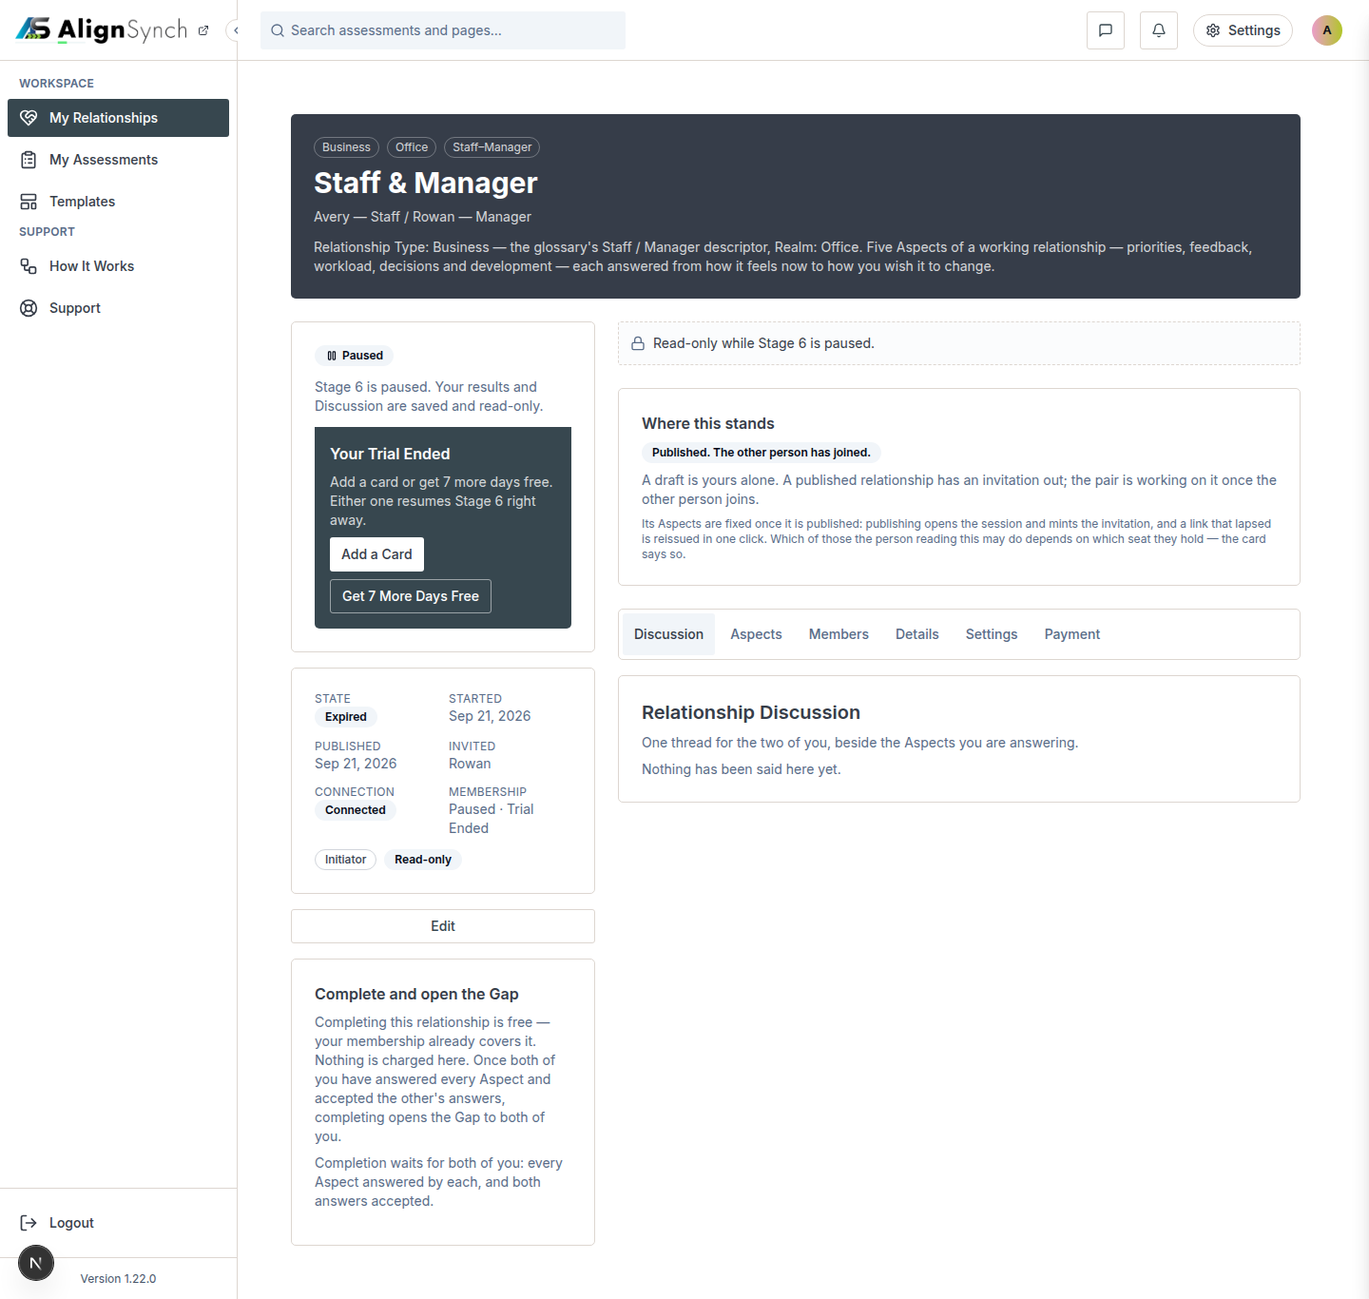
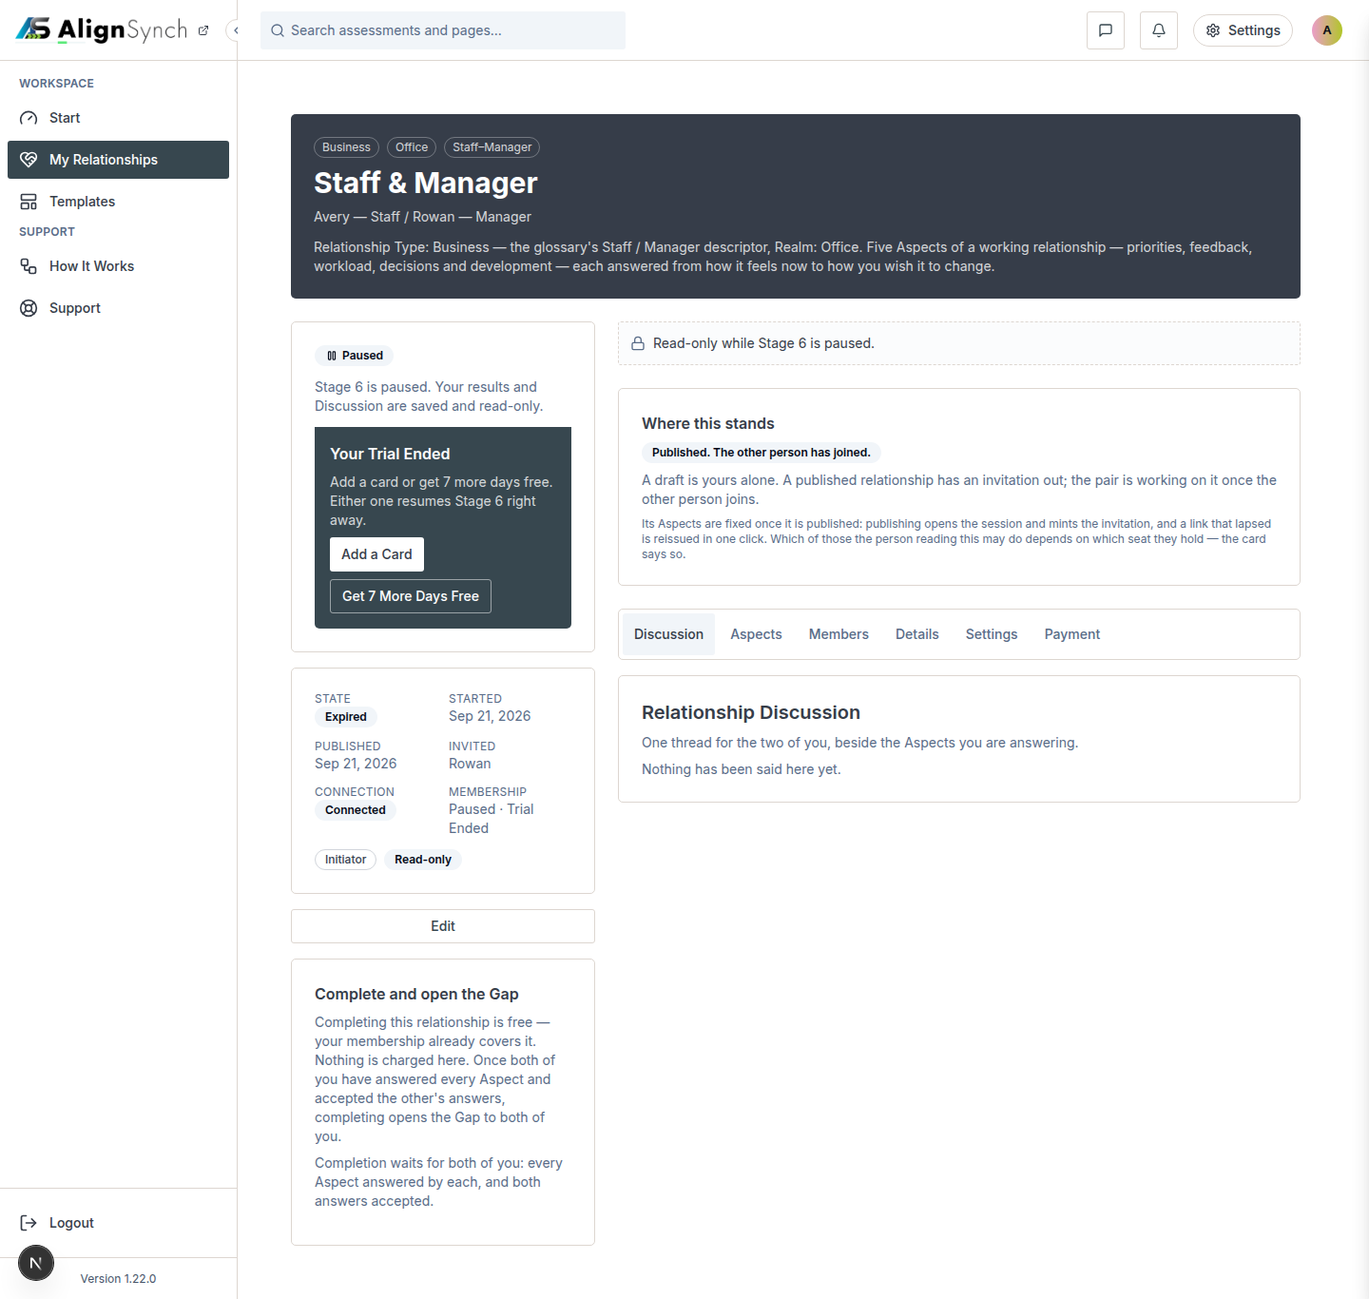
chore(release): 1.22.0 — re-issue the entry and the page for the three v2.0 landings

Changed region(s): [[0.0, 0.0615, 0.1875, 0.1537]]

diff --git a/docs/changelog/v1-22-0.md b/docs/changelog/v1-22-0.md
@@ -14,9 +14,10 @@ was answered by scrolling.
 
 This release makes the relationship a surface with sections instead of a page with headings. Six
 tabs, a hash that names one, a Counterparty who joins the pair rather than being described by the
-Initiator, Aspects that are numbered and carry a tolerance in words, and a Stage 6 that pauses when a
-trial ends instead of closing the relationship quietly. Ten feature commits answer that, and five
-fixes, chores and docs commits ride with them.
+Initiator, Aspects that are numbered and carry a tolerance in words, a Stage 6 that pauses when a
+trial ends instead of closing the relationship quietly — and a shell whose rail opens on Start
+rather than on a page of counts. Twelve feature commits answer that, and six fixes, chores and docs
+commits ride with them.
 
 ## Six sections, one record
 
@@ -82,12 +83,67 @@ offering "7 more days free" to somebody who has already paid would be a lie abou
 `daysLeft` is `ceil`, never `floor` — _0 Days Left_ on a trial that is still running reads as a
 defect, so an hour before the end still reads **1**.
 
+## Close or leave, never delete
+
+`#1135` (`#1149`) gives Stage 6 its ending verbs — and the invitation its three — under one rule:
+**close or leave, never delete.** Every verb moves a status through `lib/relationship/status.ts` and
+writes one `admin_action` row through `act()`. Not one of them deletes anything, and no answer,
+opinion or invitation is hard-removed.
+
+- `cancelInvitation` kills the link and returns the status to `draft` in one transaction, so the same
+  Aspects can be invited again. Order matters: invitation first, status second.
+- `abandonRelationship` moves `draft|pending → void` with the reason on the row's `void_reason`, and
+  deliberately not `published`, which is Cancel Invite's status.
+- `leaveRelationship` is the Counterparty's **one** status edge, `active → complete`, and it runs from
+  either seat: a two-party relationship cannot run with one seat, so leaving closes Stage 6 for both
+  with the answers still readable.
+- `requestRemoval` is the Counterparty's ask — one audit row and no state change. The reason on it is
+  support's alone, and `readMyRelationship()` selects only the instant.
+
+The detail page gains the Invitation panel (Copy Invite Link beside a link this render minted, Resend,
+Cancel behind a neutral confirm), the Abandon Draft panel, and Close This Relationship — Leave for both
+seats, Request My Removal for the Counterparty. Every control is a graphite outline, there is no
+"Delete Relationship" anywhere (`#1119` D–E), and each of the five verbs re-asks the seat inside its own
+transaction: a screen flag is never a permission.
+
 ## The create wizard draws the same rail
 
 `#1123` (`#1144`) has the Create Relationship wizard draw the v2 rail and one stage card, so the
 walk into a relationship and the page that relationship becomes are one visual system rather than
 two. The rail still prints `Stage {n} of 5`; what is new is that a stage is one card, not a column of
 sections.
+
+## The rail opens on Start
+
+`#1129` (`#1150`) ports the shell bundle over the two screens it owns and the rail they share. The
+rail reads **Start · My Relationships · Templates**, and Start is `/dashboard` with `exact: true` — a
+prefix rule would light it beside every `/dashboard/*` row. The expanded rail moves from `lg` (1024px)
+to `xl` (1280px) and the content column is capped at `max-w-content` (1440px), so a 1024px laptop
+keeps its content width instead of spending 200 pixels on a sidebar.
+
+Two screens stop being a page of counts. **Start** is one computed Next Step — the widest Gap across
+the live relationships, Wish before Feel, then Aspect order — on solid graphite, up to two outline jobs
+(add a card to a paused relationship, finish a draft, both Initiator-only), then two relationship
+cards and four templates. `lib/member/start.ts` owns the four card words, and
+`lib/member/alignment-summary.ts` computes the bar and the Next Step over `content/gaps.ts` because
+**no Gap is stored**. The four console counts that used to be this page moved one click away to
+`/assessments?filter=…`; `components/console/overview.tsx` is untouched and still answers.
+
+**My Relationships** draws one card per relationship with **one** status chip and **one** action, five
+filter chips with counts, search and sort. `?filter=` is the chip's address: the page reads it back
+(an unknown word lands on All) and writes it with `replaceState`, because the rows are already in hand
+and a navigation would re-run both reads to redraw one grid.
+
+The read underneath is member-scoped — `lib/db/member-alignments.ts` returns the bar, and no party
+name, no `user_id` and no invitation row leaves Postgres. Both empty states are bundle 05's, each with
+exactly one way forward (E40 rule 7): no rows says **No Relationships Yet** with **Browse Templates**;
+rows but nothing matching says **Nothing Matches** with **Show All**, which clears the chip and the
+search together.
+
+The rail draws three rows, not the artifact's five. `/chat` belongs to the quiz product and answers
+404 on this brand, and no Payment route exists yet; `lib/nav-menu.ts` states the rule both would break
+— _a row pointing at a 404 advertises a surface_ — so `#1131` and `#1132` each add their own row in the
+PR that builds their page.
 
 ## One palette, and a gate that reads the router
 
@@ -113,23 +169,35 @@ admin-only, read-only, and it states its own failure rather than drawing an empt
 
 ## The screen this release is about
 
-This still is this release's own tree. A dev server was started from the branch that carries this
-page, and `GET /api/version` answered `{"version":"1.22.0","commit":"7eb8ed0d"}` before a browser
-opened — the same commit the branch is cut from. Then it was captured at 1440 CSS pixels, signed in
-as the demo branch's own Initiator, on a live trial relationship.
+This still is this release's own tree. A dev server was started from the tree the release PR merged,
+and `GET /api/version` answered `{"version":"1.22.0","commit":"33c59da9"}` before a browser opened —
+the release PR's merge commit, whose squash on `main` (`0d0cadf5`) carries exactly that tree
+(`git diff 33c59da9 origin/main` is empty). Then it was captured at 1440 CSS pixels, signed in as the
+demo branch's own Initiator, on a live trial relationship.
 
-![The relationship detail at 1440 on this release's own tree: the six-tab strip across the top — Discussion, Aspects, Members, Details, Settings, Payment — over a Staff & Manager relationship read by its Initiator, with the Your Trial Ended band above the sections and the numbered Aspects below](../qa/release-1.22.0/relationship-detail-1440.png)
+![The relationship detail at 1440 on this release's own tree: shell v2's rail down the left reading Start, My Relationships, Templates, the six-tab strip across the top — Discussion, Aspects, Members, Details, Settings, Payment — over a Staff & Manager relationship read by its Initiator, with the Your Trial Ended band above the sections and the numbered Aspects below](../qa/release-1.22.0/relationship-detail-1440.png)
+
+The rail in that still is shell v2's, which is the thing that made the first capture stale: the
+screenshot was taken on `7eb8ed0d`, before `#1150` moved the chrome, so the file was re-captured
+rather than kept. `docs/qa/release-1.22.0/capture-report.json` carries the pair above and the
+assertions the capture made — the six tab labels, the rail's three rows, `scrollWidth === innerWidth`
+at 1440, and an empty `envLeaks` list.
 
 ## The honest sentence
 
 This is a surface release and it is not the v2.0 launch, which is the first thing the limits below
-say and the thing a reader of the entry is most likely to assume otherwise. Ten open pull requests
-carry the v2.0 shell and are excluded from this tag by name; the noun sweep that would retire
-`instance` in favour of `session` has not happened and both nouns are still in this tree; no
-dependency major moved; and **no migration rides this tag** — the newest file under `db/migrations/`
-is `0041_session_state.sql`, from v1.21.0, and this release neither adds one nor applies one. A
-production database whose ledger has not been run with `pnpm db:migrate` is a deliberate step
-somebody takes, not something this tag performs.
+say and the thing a reader of the entry is most likely to assume otherwise. The v2.0 lane is **half
+in** it: the app shell v2 (`#1129`, `#1150`), invitation hygiene and leave-instead-of-delete (`#1135`,
+`#1149`) and the admin CRUD bundle's docs (`#1158`) landed before this tag. The other ten v2.0 pull
+requests are open and excluded by name — templates v2 (`#1151`), the account menu (`#1152`), card menus
+and Save a Copy (`#1153`), chat v2 (`#1154`), the Aspect drawer (`#1155`), payment v2 (`#1156`),
+conversion (`#1159`), the three-plan catalogue (`#1161`), the copy-deletion fix (`#1163`) and templates
+retirement phase 2 (`#1112`) — and they land in v2.0.0. The noun sweep that would retire `instance` in
+favour of `session` has not happened and both nouns are still in this tree; no dependency major moved;
+and **no migration rides this tag** — the newest file under `db/migrations/` is
+`0041_session_state.sql`, from v1.21.0, and this release neither adds one nor applies one. A production
+database whose ledger has not been run with `pnpm db:migrate` is a deliberate step somebody takes, not
+something this tag performs.
 
 ## The entry
 
@@ -138,11 +206,13 @@ somebody takes, not something this tag performs.
 
 - **Released** 2026-11-17
 - **Tag** [`v1.22.0`](https://github.com/riolabs-ai/alignsynch/releases/tag/v1.22.0)
-- **Pull requests named** 15
+- **Pull requests named** 18
 - **The entry** [`CHANGELOG.md`](../../CHANGELOG.md)
 
 ### Added
 
+- `feat(shell)` — app shell v2 — Start and My Relationships, the rail opens on Start (#1129) ([#1150](https://github.com/riolabs-ai/alignsynch/pull/1150))
+- `feat(crud)` — invitation hygiene, and leave or abandon instead of delete (#1135) ([#1149](https://github.com/riolabs-ai/alignsynch/pull/1149))
 - `feat(admin)` — the CRUD and Permissions matrix — admin-only, read-only, with the honest failure state (#1126) ([#1157](https://github.com/riolabs-ai/alignsynch/pull/1157))
 - `feat(v2)` — #1124 — Relationship Detail's six-tab layer ([#1148](https://github.com/riolabs-ai/alignsynch/pull/1148))
 - `feat(v2)` — #1125 — Counterparty join — a 3-step role flow (Invite · Join · Accept) ([#1147](https://github.com/riolabs-ai/alignsynch/pull/1147))
@@ -160,6 +230,7 @@ somebody takes, not something this tag performs.
 
 ### Maintenance
 
+- `docs(specs)` — bundle 12 Admin CRUD & Permissions + crud-matrix.md (#1126) ([#1158](https://github.com/riolabs-ai/alignsynch/pull/1158))
 - `chore(deps)` — bump next from 16.4.1 to 16.4.5 ([#1118](https://github.com/riolabs-ai/alignsynch/pull/1118))
 - `docs(specs)` — v2.0 UI handoff bundles (01–11) ([#1137](https://github.com/riolabs-ai/alignsynch/pull/1137))
 - `chore(gate)` — routes:check — Next's own router validation over the built manifest (#1113) ([#1114](https://github.com/riolabs-ai/alignsynch/pull/1114))
@@ -169,35 +240,37 @@ somebody takes, not something this tag performs.
 <!-- changelog-view:begin limits -->
 <!-- generated from CHANGELOG.md by scripts/changelog-view.mjs — edit the entry, not this block -->
 
-- **The v2.0 lane is not in this release.** Ten open pull requests — `#1149`, `#1150`, `#1151`,
-  `#1152`, `#1153`, `#1154`, `#1155`, `#1156`, `#1158` and `#1159` — carry the v2.0 surface (app
-  shell, templates, chat, payment, CRUD, the admin matrix, conversion, the answer screen). Every one
-  of them is `DIRTY` or `BEHIND` against `main`, and all ten are excluded from this tag by name: they
-  land in v2.0.0, not here. `#1112` (templates retirement, phase 2) is excluded the same way.
+- **The v2.0 lane is half in this release, and the other half is excluded by name.** Three v2.0 pull
+  requests merged onto `main` before this tag and are **in it**: the app shell v2 — Start and My
+  Relationships, the rail opening on Start (`#1129`, `#1150`) — invitation hygiene and leave-instead-of-
+  delete (`#1135`, `#1149`), and the admin CRUD bundle's docs (`#1158`). The rest are open and are not in
+  this version: `#1151` Templates v2, `#1152` the account menu, `#1153` card menus and Save a Copy,
+  `#1154` Chat v2, `#1155` the Aspect drawer, `#1156` Payment v2, `#1159` conversion, `#1161` the three-plan
+  catalogue, `#1163` the copy-deletion fix, and `#1112` (templates retirement, phase 2). Those land in
+  v2.0.0.
 
-- **The noun sweep has not happened.** `#1103` retires `instance` in favour of `session` — `#1106`
-  in the code and `#1107` in the bundle format — and both are deferred to v2.0.0, so both nouns are
-  still in this tree's comments, its docs and its schema, and the platform bundle this build writes
-  is still version 2 (`content/bundle.ts::PLATFORM_BUNDLE_VERSION`).
+- **The noun sweep has not happened.** `#1103` retires `instance` in favour of `session` — `#1106` in the
+  code and `#1107` in the bundle format — and both are deferred to v2.0.0, so both nouns are still in this
+  tree's comments, its docs and its schema, and the platform bundle this build writes is still version 2
+  (`content/bundle.ts::PLATFORM_BUNDLE_VERSION`).
 
-- **No dependency majors.** `#1027` (swiper `14.4.0`) and `#1025` (jsdom `31.0.0`) are open and
-  deferred to v2.0.0. The only dependency that moved in this window is `next` `16.4.1` → `16.4.5`
-  (`#1118`), a patch release taken for an advisory that stopped `next build`.
+- **No dependency majors.** `#1027` (swiper `14.4.0`) and `#1025` (jsdom `31.0.0`) are open and deferred to
+  v2.0.0. The only dependency that moved in this window is `next` `16.4.1` → `16.4.5` (`#1118`), a patch
+  release taken for an advisory that stopped `next build`.
 
-- **No migration rides this tag.** Nothing under `db/migrations/` changed between `v1.21.0` and this
-  release — the newest file in the tree is `db/migrations/0041_session_state.sql`, applied on the
-  demo branch on 2026-11-16. Production's schema is applied by hand with `pnpm db:migrate` and this
-  release neither adds nor applies a migration, so a create against a production database whose
-  ledger has not been run is a separate, deliberate step rather than something this tag performs.
+- **No migration rides this tag.** Nothing under `db/migrations/` changed between `v1.21.0` and this release
+  — the newest file in the tree is `db/migrations/0041_session_state.sql`, applied on the demo branch on
+  2026-11-16. Production's schema is applied by hand with `pnpm db:migrate`, and this release neither adds
+  nor applies a migration, so a create against a production database whose ledger has not been run is a
+  separate, deliberate step rather than something this tag performs.
 
-- **`#1115` is still open in this milestone.** Its two landings — the trial anchored at creation
-  (`#1116`) and the counterparty claims (`#1117`) — are in this release; the issue itself is not
-  closed by it and moves to v2.0.0, so the trial's acceptance anchor is shipped but unproven end to
-  end by an issue that has not closed.
+- **`#1115` is still open.** Its two landings — the trial anchored at creation (`#1116`) and the
+  counterparty claims (`#1117`) — are in this release; the issue itself is not closed by it and moves to
+  v2.0.0, so the trial's acceptance anchor ships without an issue closing behind it.
 
 - **Production's two `ADMIN_EMAILS` seats still answer `401`** (`#1084`). `walt1@alignsynch.com` and
-  `alignsynch@riolabs.ai` fail `INVALID_EMAIL_OR_PASSWORD` against `https://alignsynch.com`. Carried
-  from v1.21.0 unchanged: this release provisions neither seat, and the issue is open in the backlog.
+  `alignsynch@riolabs.ai` fail `INVALID_EMAIL_OR_PASSWORD` against `https://alignsynch.com`. Carried from
+  v1.21.0 unchanged: this release provisions neither seat, and the issue is open in the backlog.
 <!-- changelog-view:end -->
 
 <!-- docs-nav:begin -->

diff --git a/CHANGELOG.md b/CHANGELOG.md
@@ -10,6 +10,8 @@ with a **Known limits** block, because a release that does not say what it canno
 
 ### Added
 
+- `feat(shell)` — app shell v2 — Start and My Relationships, the rail opens on Start (#1129) ([#1150](https://github.com/riolabs-ai/alignsynch/pull/1150))
+- `feat(crud)` — invitation hygiene, and leave or abandon instead of delete (#1135) ([#1149](https://github.com/riolabs-ai/alignsynch/pull/1149))
 - `feat(admin)` — the CRUD and Permissions matrix — admin-only, read-only, with the honest failure state (#1126) ([#1157](https://github.com/riolabs-ai/alignsynch/pull/1157))
 - `feat(v2)` — #1124 — Relationship Detail's six-tab layer ([#1148](https://github.com/riolabs-ai/alignsynch/pull/1148))
 - `feat(v2)` — #1125 — Counterparty join — a 3-step role flow (Invite · Join · Accept) ([#1147](https://github.com/riolabs-ai/alignsynch/pull/1147))
@@ -27,6 +29,7 @@ with a **Known limits** block, because a release that does not say what it canno
 
 ### Maintenance
 
+- `docs(specs)` — bundle 12 Admin CRUD & Permissions + crud-matrix.md (#1126) ([#1158](https://github.com/riolabs-ai/alignsynch/pull/1158))
 - `chore(deps)` — bump next from 16.4.1 to 16.4.5 ([#1118](https://github.com/riolabs-ai/alignsynch/pull/1118))
 - `docs(specs)` — v2.0 UI handoff bundles (01–11) ([#1137](https://github.com/riolabs-ai/alignsynch/pull/1137))
 - `chore(gate)` — routes:check — Next's own router validation over the built manifest (#1113) ([#1114](https://github.com/riolabs-ai/alignsynch/pull/1114))
@@ -34,35 +37,37 @@ with a **Known limits** block, because a release that does not say what it canno
 
 ### Known limits
 
-- **The v2.0 lane is not in this release.** Ten open pull requests — `#1149`, `#1150`, `#1151`,
-  `#1152`, `#1153`, `#1154`, `#1155`, `#1156`, `#1158` and `#1159` — carry the v2.0 surface (app
-  shell, templates, chat, payment, CRUD, the admin matrix, conversion, the answer screen). Every one
-  of them is `DIRTY` or `BEHIND` against `main`, and all ten are excluded from this tag by name: they
-  land in v2.0.0, not here. `#1112` (templates retirement, phase 2) is excluded the same way.
+- **The v2.0 lane is half in this release, and the other half is excluded by name.** Three v2.0 pull
+  requests merged onto `main` before this tag and are **in it**: the app shell v2 — Start and My
+  Relationships, the rail opening on Start (`#1129`, `#1150`) — invitation hygiene and leave-instead-of-
+  delete (`#1135`, `#1149`), and the admin CRUD bundle's docs (`#1158`). The rest are open and are not in
+  this version: `#1151` Templates v2, `#1152` the account menu, `#1153` card menus and Save a Copy,
+  `#1154` Chat v2, `#1155` the Aspect drawer, `#1156` Payment v2, `#1159` conversion, `#1161` the three-plan
+  catalogue, `#1163` the copy-deletion fix, and `#1112` (templates retirement, phase 2). Those land in
+  v2.0.0.
 
-- **The noun sweep has not happened.** `#1103` retires `instance` in favour of `session` — `#1106`
-  in the code and `#1107` in the bundle format — and both are deferred to v2.0.0, so both nouns are
-  still in this tree's comments, its docs and its schema, and the platform bundle this build writes
-  is still version 2 (`content/bundle.ts::PLATFORM_BUNDLE_VERSION`).
+- **The noun sweep has not happened.** `#1103` retires `instance` in favour of `session` — `#1106` in the
+  code and `#1107` in the bundle format — and both are deferred to v2.0.0, so both nouns are still in this
+  tree's comments, its docs and its schema, and the platform bundle this build writes is still version 2
+  (`content/bundle.ts::PLATFORM_BUNDLE_VERSION`).
 
-- **No dependency majors.** `#1027` (swiper `14.4.0`) and `#1025` (jsdom `31.0.0`) are open and
-  deferred to v2.0.0. The only dependency that moved in this window is `next` `16.4.1` → `16.4.5`
-  (`#1118`), a patch release taken for an advisory that stopped `next build`.
+- **No dependency majors.** `#1027` (swiper `14.4.0`) and `#1025` (jsdom `31.0.0`) are open and deferred to
+  v2.0.0. The only dependency that moved in this window is `next` `16.4.1` → `16.4.5` (`#1118`), a patch
+  release taken for an advisory that stopped `next build`.
 
-- **No migration rides this tag.** Nothing under `db/migrations/` changed between `v1.21.0` and this
-  release — the newest file in the tree is `db/migrations/0041_session_state.sql`, applied on the
-  demo branch on 2026-11-16. Production's schema is applied by hand with `pnpm db:migrate` and this
-  release neither adds nor applies a migration, so a create against a production database whose
-  ledger has not been run is a separate, deliberate step rather than something this tag performs.
+- **No migration rides this tag.** Nothing under `db/migrations/` changed between `v1.21.0` and this release
+  — the newest file in the tree is `db/migrations/0041_session_state.sql`, applied on the demo branch on
+  2026-11-16. Production's schema is applied by hand with `pnpm db:migrate`, and this release neither adds
+  nor applies a migration, so a create against a production database whose ledger has not been run is a
+  separate, deliberate step rather than something this tag performs.
 
-- **`#1115` is still open in this milestone.** Its two landings — the trial anchored at creation
-  (`#1116`) and the counterparty claims (`#1117`) — are in this release; the issue itself is not
-  closed by it and moves to v2.0.0, so the trial's acceptance anchor is shipped but unproven end to
-  end by an issue that has not closed.
+- **`#1115` is still open.** Its two landings — the trial anchored at creation (`#1116`) and the
+  counterparty claims (`#1117`) — are in this release; the issue itself is not closed by it and moves to
+  v2.0.0, so the trial's acceptance anchor ships without an issue closing behind it.
 
 - **Production's two `ADMIN_EMAILS` seats still answer `401`** (`#1084`). `walt1@alignsynch.com` and
-  `alignsynch@riolabs.ai` fail `INVALID_EMAIL_OR_PASSWORD` against `https://alignsynch.com`. Carried
-  from v1.21.0 unchanged: this release provisions neither seat, and the issue is open in the backlog.
+  `alignsynch@riolabs.ai` fail `INVALID_EMAIL_OR_PASSWORD` against `https://alignsynch.com`. Carried from
+  v1.21.0 unchanged: this release provisions neither seat, and the issue is open in the backlog.
 
 ## [1.21.0] - 2026-11-16
 

diff --git a/docs/changelog/README.md b/docs/changelog/README.md
@@ -48,7 +48,7 @@ pnpm changelog:check    # fail, naming the page and line, when one has drifted
 
 - **Released** 2026-11-17
 - **Tag** [`v1.22.0`](https://github.com/riolabs-ai/alignsynch/releases/tag/v1.22.0)
-- **Pull requests named** 15
+- **Pull requests named** 18
 - **Theme:** the release where the relationship became six sections you can read — a Counterparty who joins instead of being described, numbered Aspects with a tolerance in words, and a trial that pauses instead of closing
 - **Headline:** feat(v2) — #1124 — Relationship Detail's six-tab layer (#1148)
 
